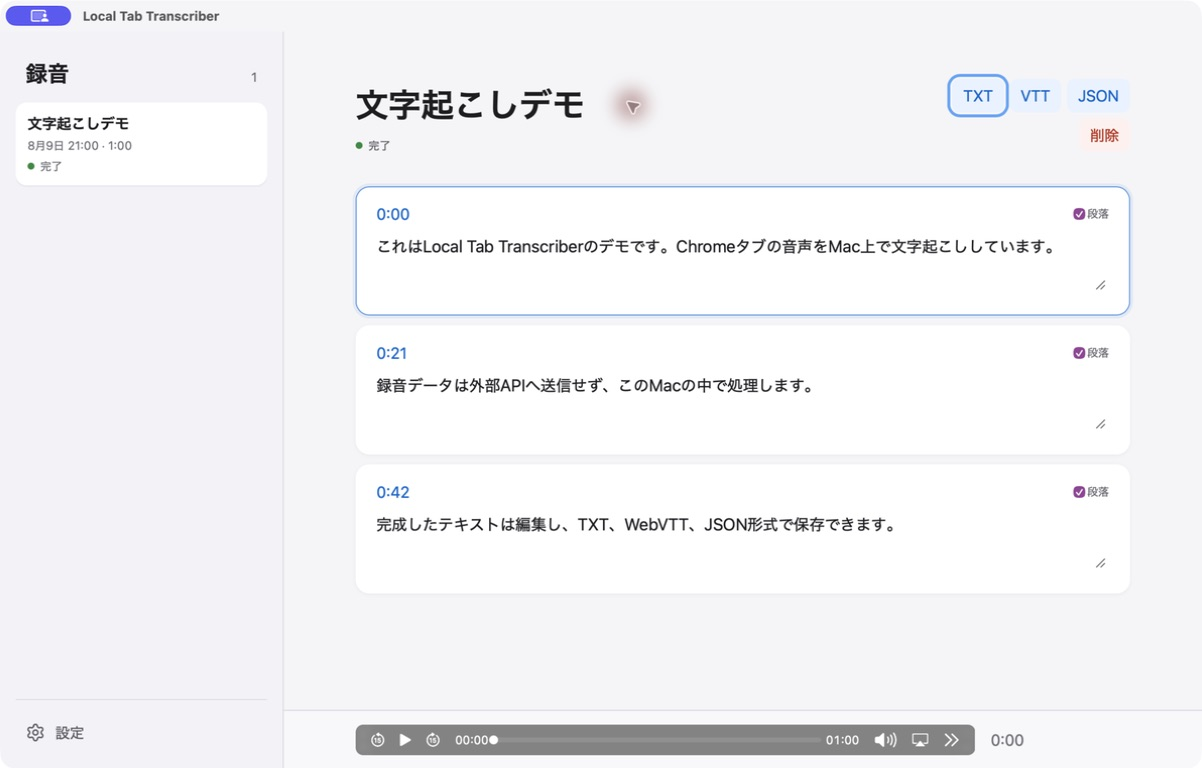
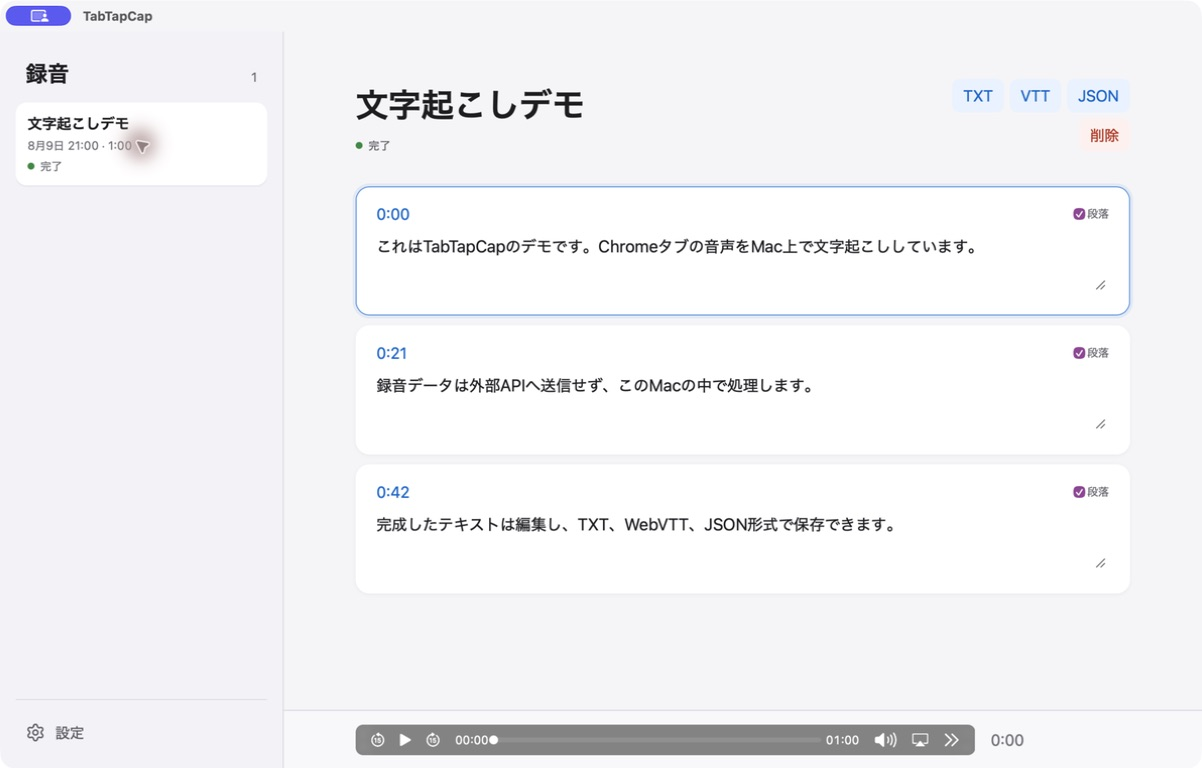
chore: rename app to TabTapCap

diff --git a/apps/extension/manifest.config.ts b/apps/extension/manifest.config.ts
@@ -2,7 +2,7 @@ import { defineManifest } from "@crxjs/vite-plugin";
 
 export default defineManifest({
   manifest_version: 3,
-  name: "Local Tab Transcriber",
+  name: "TabTapCap",
   description: "現在のタブ音声をMac上だけで文字起こしします。",
   version: "0.1.0",
   minimum_chrome_version: "116",
@@ -14,7 +14,7 @@ export default defineManifest({
   },
   action: {
     default_popup: "src/popup.html",
-    default_title: "Local Tab Transcriber"
+    default_title: "TabTapCap"
   },
   content_security_policy: {
     extension_pages:
@@ -26,4 +26,3 @@ export default defineManifest({
     "128": "icons/icon-128.png"
   }
 });
-

diff --git a/apps/desktop/index.html b/apps/desktop/index.html
@@ -5,7 +5,7 @@
     <meta name="viewport" content="width=device-width, initial-scale=1.0" />
     <meta name="theme-color" content="#f5f5f7" />
     <link rel="icon" href="/favicon.svg" type="image/svg+xml" />
-    <title>Local Tab Transcriber</title>
+    <title>TabTapCap</title>
   </head>
   <body>
     <div id="root"></div>

diff --git a/apps/extension/src/popup.html b/apps/extension/src/popup.html
@@ -3,7 +3,7 @@
   <head>
     <meta charset="UTF-8" />
     <meta name="viewport" content="width=device-width, initial-scale=1.0" />
-    <title>Local Tab Transcriber</title>
+    <title>TabTapCap</title>
     <link rel="stylesheet" href="./popup.css" />
   </head>
   <body>

diff --git a/apps/extension/src/offscreen.html b/apps/extension/src/offscreen.html
@@ -2,10 +2,9 @@
 <html lang="ja">
   <head>
     <meta charset="UTF-8" />
-    <title>Local Tab Transcriber capture</title>
+    <title>TabTapCap capture</title>
   </head>
   <body>
     <script type="module" src="./offscreen.ts"></script>
   </body>
 </html>
-

diff --git a/apps/desktop/src-tauri/src/lib.rs b/apps/desktop/src-tauri/src/lib.rs
@@ -156,7 +156,7 @@ pub fn run() {
             Ok(())
         })
         .run(tauri::generate_context!())
-        .expect("failed to run Local Tab Transcriber");
+        .expect("failed to run TabTapCap");
 }
 
 #[cfg(test)]

diff --git a/README.md b/README.md
@@ -1,4 +1,4 @@
-# Local Tab Transcriber
+# TabTapCap
 
 Chromeの現在のタブ音声をMac上だけで文字起こしし、句読点・文・段落を整えた日本語テキストとWebVTTを編集・保存するローカルアプリです。
 
@@ -31,7 +31,7 @@ pnpm --filter @local-transcriber/extension build
 生成物は次の場所です。
 
 ```text
-target/release/bundle/macos/Local Tab Transcriber.app
+target/release/bundle/macos/TabTapCap.app
 apps/extension/dist
 ```
 
